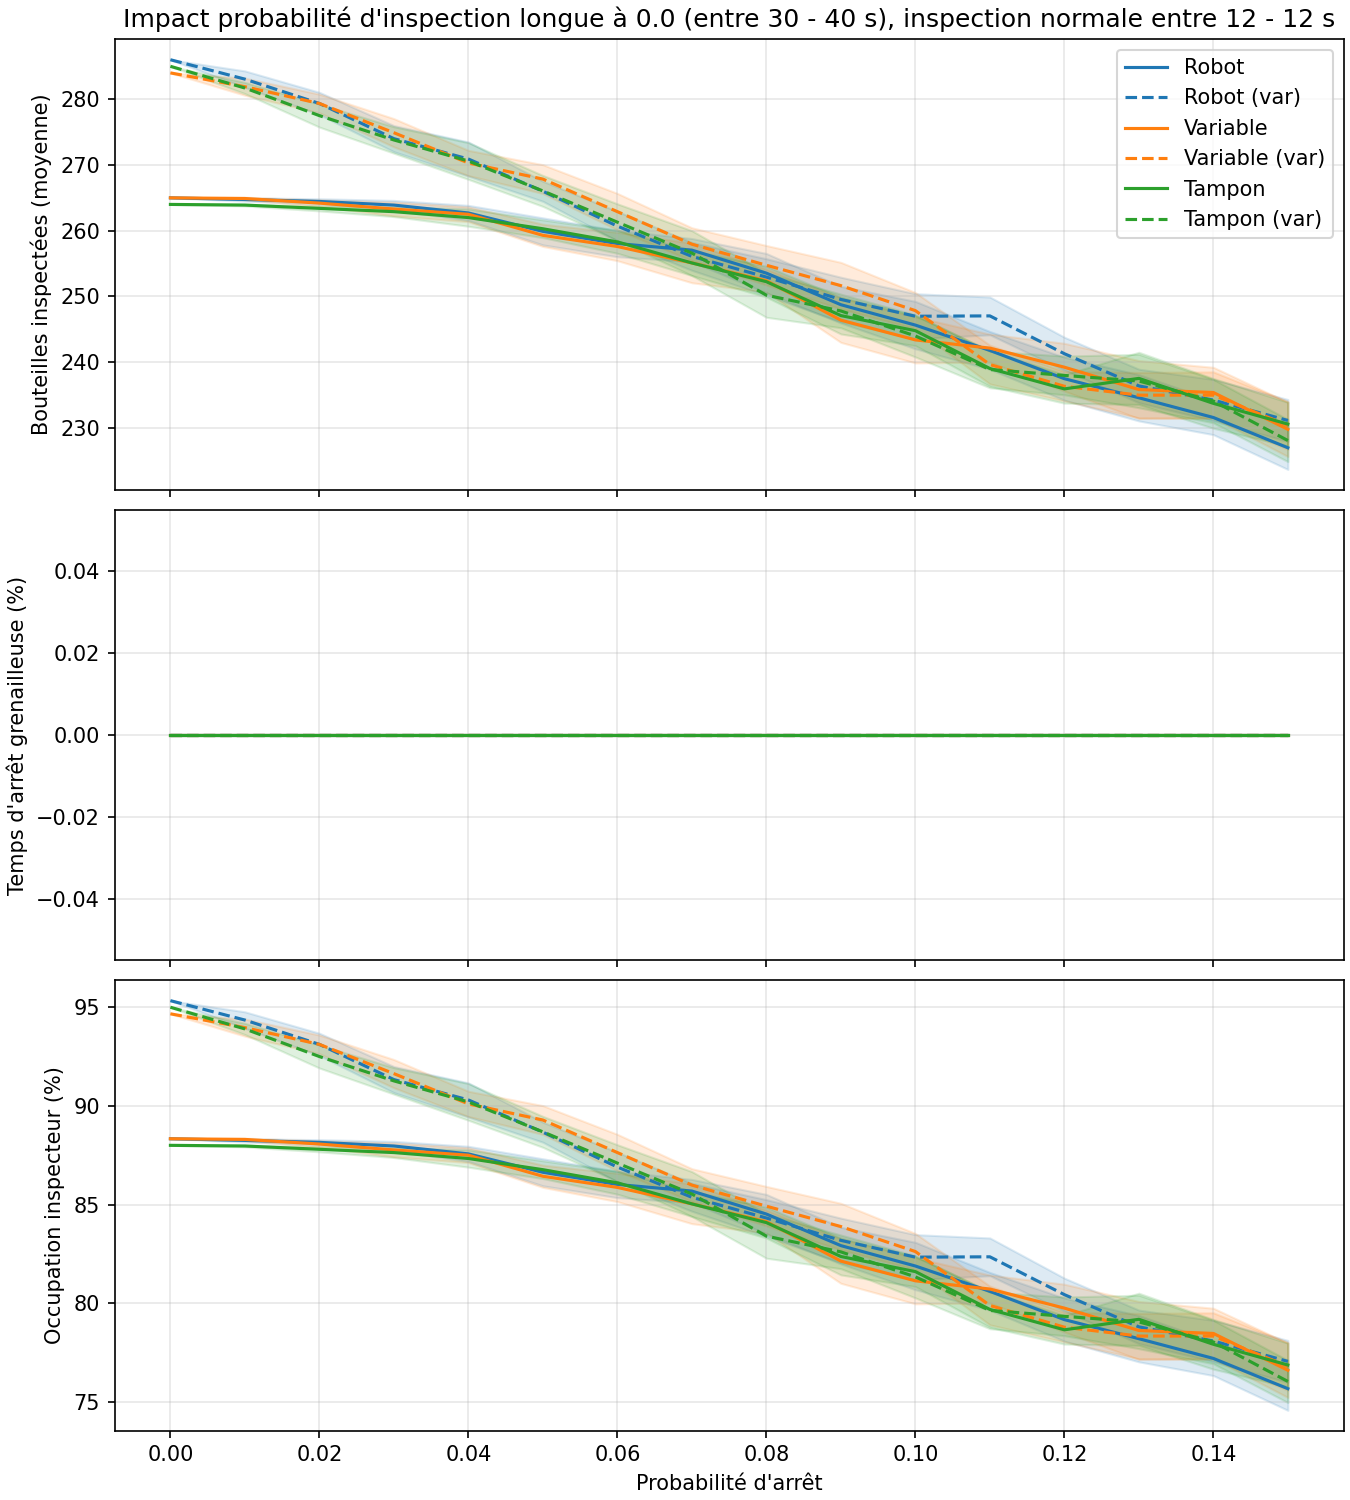
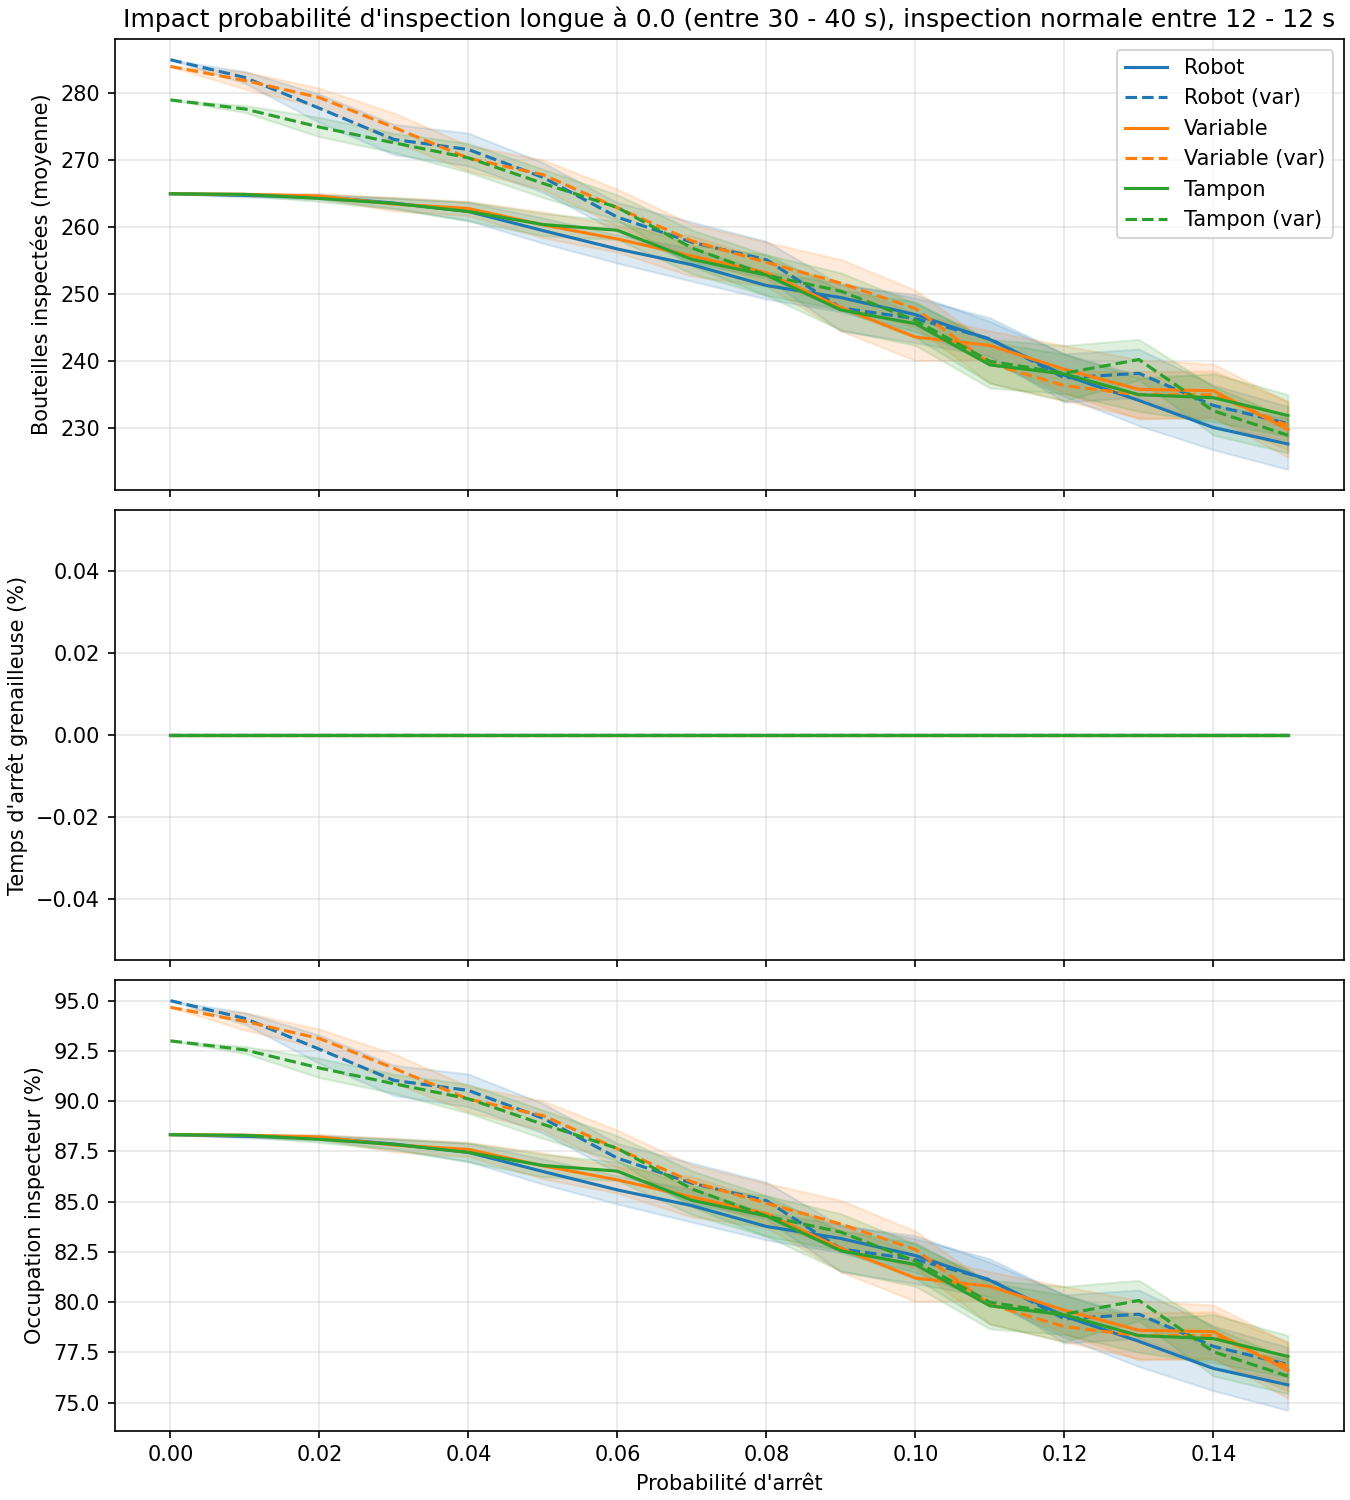
change in the conveyor buffers

diff --git a/demo_variable_conveyor_tempon.py b/demo_variable_conveyor_tempon.py
@@ -159,8 +159,9 @@ def demo_composite_flow(
     grenailleuse_blocked_time = [0.0]
     env.process(step_conveyor_advance(env, step_g, gr_conv, grenailleuse_exit_times, grenailleuse_blocked_time)) 
     # downstream chain: pre-variable continuous conveyor -> variable conveyor -> continuous conveyor -> det2 hold -> det1 hold -> inspector
-    pre_var_capacity = int(length_first // vertical_spacing)
-    pre_var_in = simpy.Store(env, capacity=pre_var_capacity)
+    # Keep only a handoff slot after the pre-variable conveyor.
+    # The in-flight capacity is already enforced by continuous_conveyor(length_first, vertical_spacing).
+    pre_var_in = simpy.Store(env, capacity=1)
     det1_hold = simpy.Store(env, capacity=1)
     cont_items_state = {"items": []}
     det_state = {"det1": 0, "det2": 0, "det3": 0, "det4": 0}
@@ -414,23 +415,20 @@ def demo_composite_flow(
         base_step = step_g["step_time"]
         min_step = base_step * 0.8
         max_step = base_step * 1.4
-        pre_var_cap = max(1, pre_var_capacity) 
         var_cap = max(1, int(length_second // horizontal_spacing))
         cont_cap = max(1, int(length_third // horizontal_spacing))
         inspect_cap = max(1, det1_hold.capacity)
         step_out_cap = max(1, step_g["output_store"].capacity)
         while True:
             step_out_fill = len(step_g["output_store"].items) / step_out_cap
-            pre_var_fill = len(pre_var_in.items) / pre_var_cap
             var_fill = len(var_items_state["items"]) / var_cap
             cont_fill = len(cont_items_state["items"]) / cont_cap
             inspect_fill = len(det1_hold.items) / inspect_cap
             downstream_pressure = (
-                0.30 * step_out_fill
-                + 0.25 * pre_var_fill
-                + 0.20 * var_fill
-                + 0.15 * cont_fill
-                + 0.10 * inspect_fill
+                0.35 * step_out_fill
+                + 0.30 * var_fill
+                + 0.20 * cont_fill
+                + 0.15 * inspect_fill
             )
             pressure_window.append(downstream_pressure)
             pressure_avg = sum(pressure_window) / len(pressure_window)

diff --git a/Parameter_horizontal.py b/Parameter_horizontal.py
@@ -1,6 +1,6 @@
 #Parameters
 #Variable n°1 : Temps de production en heure (par exemple 16h)
-env_time = 60*60
+env_time = 60*60*8
 
 #57600
 
@@ -48,7 +48,7 @@ spacing = 30
 #Variable conveyor
 step_time_2 = 10
 
-speed_tempon = 13
+speed_tempon = 18
 first_speed = 13
 second_speed = 15
 
@@ -65,10 +65,10 @@ horizontal_spacing= 85
 #Variable n° ? : Temps minimum pour l’inspection de la bouteille ; 
 #Variable n° ? : Temps maximum pour l’inspection de la bouteille
 inspect_min = 12
-inspect_max = 15
+inspect_max = 12
 min = 30
 max = 40
-s = 0.01
+s = 0.00
 #Load and Unload from Inspector 
 #Variable n° ? : Vitesse pour transférer une bouteille du déchargement machine jusqu’au chargement de la table d’inspection.
 #Variable n° ? : Temps de chargement de la table d’inspection (par exemple 8 secondes), together thats 2+8 
